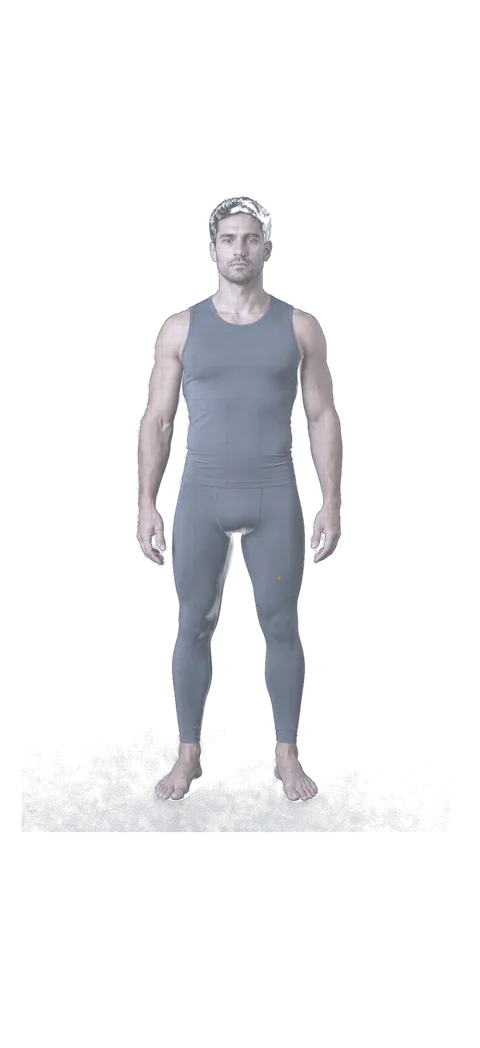
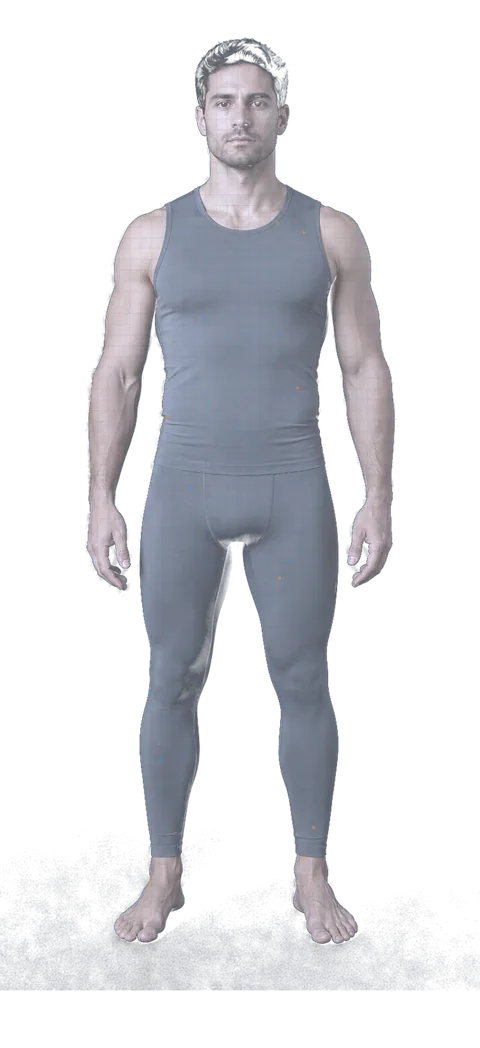
Scale male HDM figure to match female head-to-toe frame.
Width-limited fit left the male ~61% tall; height-first compositing aligns him with the female silhouette.

Changed region(s): [[0.0, 0.0305, 0.9062, 0.9466], [0.4688, 0.4885, 0.5625, 0.5802]]

diff --git a/src/components/home/humanDataModel/HumanSilhouette.tsx b/src/components/home/humanDataModel/HumanSilhouette.tsx
@@ -29,7 +29,7 @@ interface Props {
   onSelectCategory: (id: string) => void;
 }
 
-const FIGURE_CACHE = 'v=15';
+const FIGURE_CACHE = 'v=16';
 
 function hexToRgba(hex: string, alpha: number): string {
   const h = hex.replace('#', '');

diff --git a/scripts/generate-hdm-human.py b/scripts/generate-hdm-human.py
@@ -55,18 +55,34 @@ if not FIGURES["female"]["cut"].exists():
     FIGURES["female"]["cut"] = ROOT / "scripts/hdm-human-photo-cutout.png"
 
 
-def fit_cutout(cut: Image.Image, tw: int, th: int, pad_frac: float = 0.045) -> Image.Image:
-    a = cut.split()[-1]
-    bbox = a.getbbox()
+def _alpha_bbox(alpha: Image.Image, thresh: int = 16) -> tuple[int, int, int, int]:
+    """Tight bbox ignoring fringe alpha so wide poses don't inflate empty padding."""
+    solid = alpha.point(lambda v: 255 if v >= thresh else 0)
+    bbox = solid.getbbox()
     if not bbox:
         raise SystemExit("empty cutout")
+    return bbox
+
+
+def fit_cutout(cut: Image.Image, tw: int, th: int, pad_frac: float = 0.045) -> Image.Image:
+    """Fit cutout into OUT canvas with consistent head-to-toe height.
+
+    Height is the primary constraint (match female ~90% frame). Wide male poses
+    may exceed canvas width and are center-cropped — never shrink the whole
+    figure to preserve side padding (that left male ~61% tall).
+    """
+    a = cut.split()[-1]
+    bbox = _alpha_bbox(a)
     person = cut.crop(bbox)
     pw, ph = person.size
-    max_w = int(tw * (1 - 2 * pad_frac))
     max_h = int(th * (1 - 2 * pad_frac))
-    scale = min(max_w / pw, max_h / ph)
+    scale = max_h / ph
     nw, nh = max(1, int(pw * scale)), max(1, int(ph * scale))
     person = person.resize((nw, nh), Image.Resampling.LANCZOS)
+    if nw > tw:
+        left = (nw - tw) // 2
+        person = person.crop((left, 0, left + tw, nh))
+        nw = tw
     canvas = Image.new("RGBA", (tw, th), (0, 0, 0, 0))
     x = (tw - nw) // 2
     y = max(int(th * pad_frac * 0.6), (th - nh) // 2 - int(th * 0.01))
